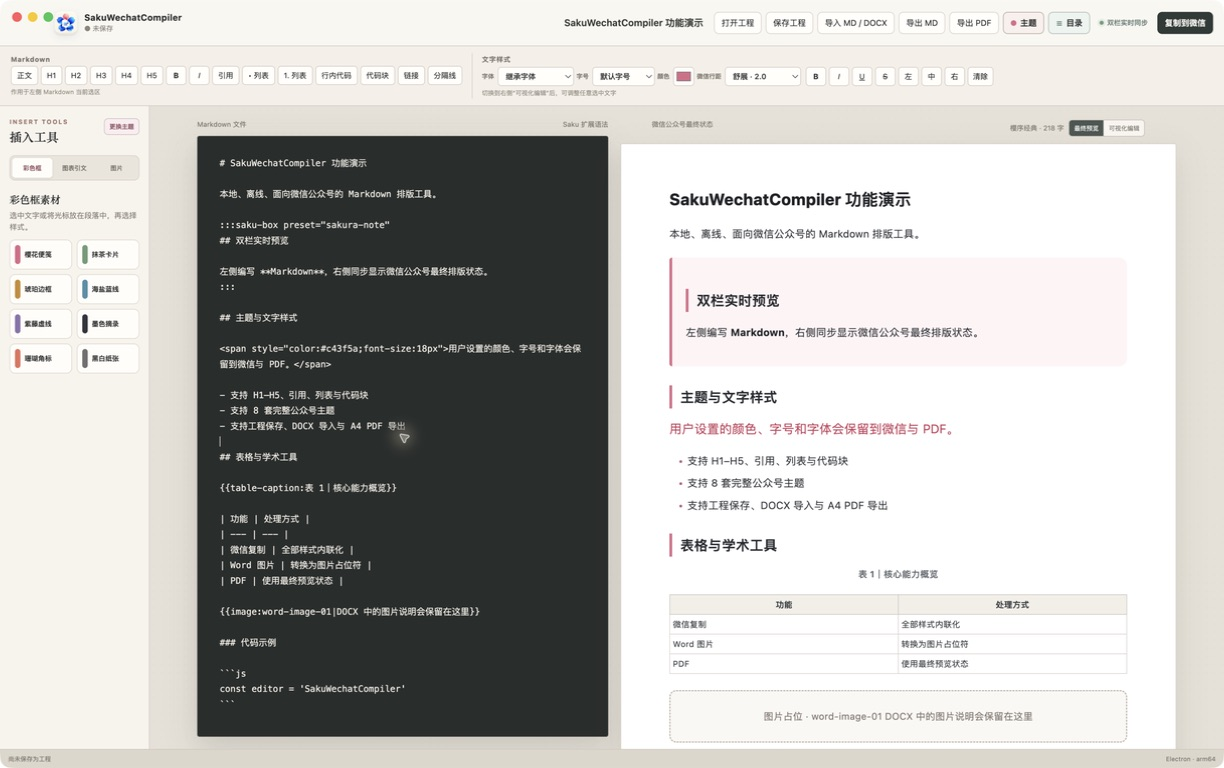
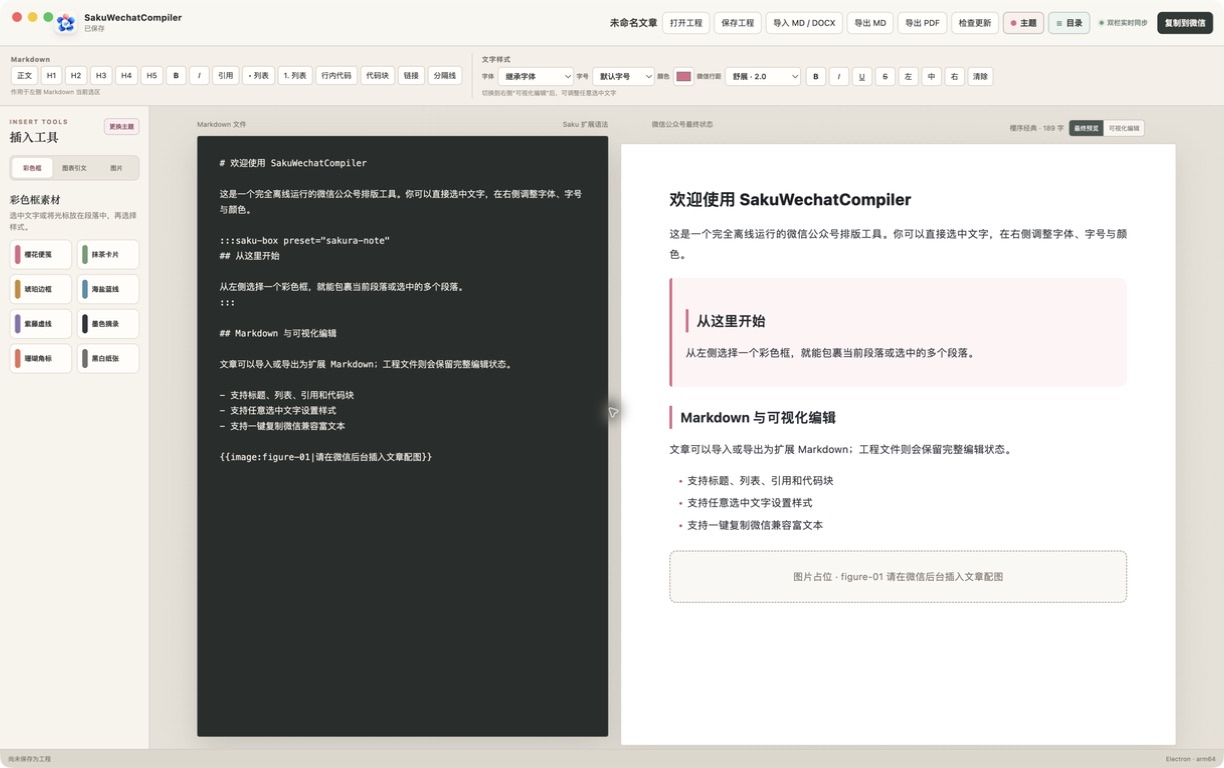
增加用户可选的 Release 更新检查

diff --git a/electron/main.ts b/electron/main.ts
@@ -7,12 +7,14 @@ import {
   Menu,
   type MenuItemConstructorOptions,
   nativeImage,
+  net,
   shell
 } from 'electron'
 import { readFile, writeFile } from 'node:fs/promises'
 import { basename, dirname, extname, join } from 'node:path'
 import * as mammoth from 'mammoth'
 import { createPrintablePdfHtml } from '../src/lib/pdf'
+import { compareVersions, parseGitHubRelease, type UpdateCheckResult } from '../src/lib/update'
 
 type SaveRequest = {
   content: string
@@ -52,6 +54,63 @@ const showAboutDialog = async (): Promise<void> => {
   })
 
   if (result.response === 0) await shell.openExternal('https://urbancomp.net')
+}
+
+const GITHUB_LATEST_RELEASE_API = 'https://api.github.com/repos/whuyao/SakuWechatCompiler/releases/latest'
+
+const checkForUpdates = async (parentWindow?: BrowserWindow): Promise<UpdateCheckResult> => {
+  const currentVersion = app.getVersion()
+
+  try {
+    const response = await net.fetch(GITHUB_LATEST_RELEASE_API, {
+      signal: AbortSignal.timeout(12_000),
+      headers: {
+        Accept: 'application/vnd.github+json',
+        'User-Agent': `SakuWechatCompiler/${currentVersion}`,
+        'X-GitHub-Api-Version': '2022-11-28'
+      }
+    })
+    if (!response.ok) throw new Error(`GitHub API 返回 ${response.status}`)
+
+    const release = parseGitHubRelease(await response.json())
+    if (compareVersions(release.version, currentVersion) <= 0) {
+      await dialog.showMessageBox(parentWindow ?? undefined, {
+        type: 'info',
+        title: '检查更新',
+        message: '当前已是最新版本',
+        detail: `当前版本：${currentVersion}\n最新版本：${release.version}`,
+        buttons: ['好'],
+        noLink: true
+      })
+      return { status: 'up-to-date', currentVersion, latestVersion: release.version }
+    }
+
+    const notes = release.notes.length > 1200 ? `${release.notes.slice(0, 1200)}…` : release.notes
+    const result = await dialog.showMessageBox(parentWindow ?? undefined, {
+      type: 'info',
+      title: '发现新版本',
+      message: `SakuWechatCompiler ${release.version} 可以更新`,
+      detail: `当前版本：${currentVersion}\n最新版本：${release.version}${notes ? `\n\n更新说明\n${notes}` : ''}\n\n更新不会自动安装；选择下载后，请打开 DMG 完成替换。`,
+      buttons: ['下载更新', '稍后'],
+      defaultId: 0,
+      cancelId: 1,
+      noLink: true
+    })
+
+    if (result.response === 0) await shell.openExternal(release.downloadUrl ?? release.pageUrl)
+    return { status: 'available', currentVersion, latestVersion: release.version }
+  } catch (error) {
+    const message = error instanceof Error ? error.message : '未知错误'
+    await dialog.showMessageBox(parentWindow ?? undefined, {
+      type: 'warning',
+      title: '无法检查更新',
+      message: '暂时无法连接 GitHub Release。',
+      detail: `${message}\n\n应用仍可离线正常使用，请稍后重试。`,
+      buttons: ['好'],
+      noLink: true
+    })
+    return { status: 'error', currentVersion, message }
+  }
 }
 
 const installApplicationMenu = (): void => {
@@ -107,6 +166,11 @@ const installApplicationMenu = (): void => {
     {
       label: '帮助',
       submenu: [
+        {
+          label: '检查更新…',
+          click: () => void checkForUpdates(BrowserWindow.getFocusedWindow() ?? undefined)
+        },
+        { type: 'separator' },
         { label: 'UrbanComp 官网', click: () => void shell.openExternal('https://urbancomp.net') },
         { label: '关于 SakuWechatCompiler', click: () => void showAboutDialog() }
       ]
@@ -176,6 +240,10 @@ const registerIpc = (): void => {
   ipcMain.on('app:set-dirty', (event, dirty: boolean) => {
     const window = BrowserWindow.fromWebContents(event.sender)
     if (window) dirtyWindows.set(window.id, Boolean(dirty))
+  })
+
+  ipcMain.handle('app:check-for-updates', async (event) => {
+    return checkForUpdates(BrowserWindow.fromWebContents(event.sender) ?? undefined)
   })
 
   ipcMain.handle('content:import', async () => {

diff --git a/src/lib/update.ts b/src/lib/update.ts
@@ -1,0 +1,108 @@
+export const RELEASES_URL = 'https://github.com/whuyao/SakuWechatCompiler/releases'
+
+export type UpdateCheckResult = {
+  status: 'available' | 'up-to-date' | 'error'
+  currentVersion: string
+  latestVersion?: string
+  message?: string
+}
+
+export type GitHubRelease = {
+  version: string
+  title: string
+  pageUrl: string
+  downloadUrl?: string
+  notes: string
+}
+
+type ParsedVersion = {
+  core: number[]
+  prerelease: string[]
+}
+
+const parseVersion = (value: string): ParsedVersion => {
+  const normalized = value.trim().replace(/^v/i, '').split('+', 1)[0]
+  const [coreValue, prereleaseValue = ''] = normalized.split('-', 2)
+  const coreParts = coreValue.split('.')
+
+  if (coreParts.length < 2 || coreParts.some((part) => !/^\d+$/.test(part))) {
+    throw new Error(`无法识别版本号 ${value}`)
+  }
+
+  return {
+    core: coreParts.map(Number),
+    prerelease: prereleaseValue ? prereleaseValue.split('.') : []
+  }
+}
+
+export const compareVersions = (left: string, right: string): number => {
+  const a = parseVersion(left)
+  const b = parseVersion(right)
+  const coreLength = Math.max(a.core.length, b.core.length)
+
+  for (let index = 0; index < coreLength; index += 1) {
+    const difference = (a.core[index] ?? 0) - (b.core[index] ?? 0)
+    if (difference !== 0) return difference > 0 ? 1 : -1
+  }
+
+  if (a.prerelease.length === 0 && b.prerelease.length > 0) return 1
+  if (a.prerelease.length > 0 && b.prerelease.length === 0) return -1
+
+  const prereleaseLength = Math.max(a.prerelease.length, b.prerelease.length)
+  for (let index = 0; index < prereleaseLength; index += 1) {
+    const leftPart = a.prerelease[index]
+    const rightPart = b.prerelease[index]
+    if (leftPart === undefined) return -1
+    if (rightPart === undefined) return 1
+    if (leftPart === rightPart) continue
+
+    const leftIsNumber = /^\d+$/.test(leftPart)
+    const rightIsNumber = /^\d+$/.test(rightPart)
+    if (leftIsNumber && rightIsNumber) return Number(leftPart) > Number(rightPart) ? 1 : -1
+    if (leftIsNumber !== rightIsNumber) return leftIsNumber ? -1 : 1
+    return leftPart.localeCompare(rightPart) > 0 ? 1 : -1
+  }
+
+  return 0
+}
+
+export const isSafeReleaseUrl = (value: string): boolean => {
+  try {
+    const url = new URL(value)
+    return url.protocol === 'https:'
+      && url.hostname === 'github.com'
+      && url.pathname.startsWith('/whuyao/SakuWechatCompiler/releases/')
+  } catch {
+    return false
+  }
+}
+
+export const parseGitHubRelease = (value: unknown): GitHubRelease => {
+  if (!value || typeof value !== 'object') throw new Error('GitHub Release 返回了无效数据。')
+  const release = value as Record<string, unknown>
+  const version = typeof release.tag_name === 'string' ? release.tag_name.trim().replace(/^v/i, '') : ''
+  const pageUrl = typeof release.html_url === 'string' ? release.html_url : ''
+
+  parseVersion(version)
+  if (!isSafeReleaseUrl(pageUrl)) throw new Error('Release 下载地址无效。')
+
+  const assets = Array.isArray(release.assets) ? release.assets : []
+  const dmgAsset = assets.find((asset) => {
+    if (!asset || typeof asset !== 'object') return false
+    const item = asset as Record<string, unknown>
+    return typeof item.name === 'string' && /-arm64\.dmg$/i.test(item.name)
+  }) as Record<string, unknown> | undefined
+  const candidateDownloadUrl = typeof dmgAsset?.browser_download_url === 'string'
+    ? dmgAsset.browser_download_url
+    : undefined
+
+  return {
+    version,
+    title: typeof release.name === 'string' && release.name.trim() ? release.name.trim() : `v${version}`,
+    pageUrl,
+    downloadUrl: candidateDownloadUrl && isSafeReleaseUrl(candidateDownloadUrl)
+      ? candidateDownloadUrl
+      : undefined,
+    notes: typeof release.body === 'string' ? release.body.trim() : ''
+  }
+}

diff --git a/src/App.tsx b/src/App.tsx
@@ -90,6 +90,7 @@ function App() {
   const [previewMode, setPreviewMode] = useState<PreviewMode>('final')
   const [utilityDrawer, setUtilityDrawer] = useState<UtilityDrawer>(null)
   const [sidebarTab, setSidebarTab] = useState<SidebarTab>('boxes')
+  const [checkingForUpdates, setCheckingForUpdates] = useState(false)
   const sourceSyncTimer = useRef<number | null>(null)
   const sourceTextareaRef = useRef<HTMLTextAreaElement>(null)
 
@@ -466,6 +467,23 @@ function App() {
     }
   }
 
+  const checkForUpdates = async () => {
+    if (!window.saku || checkingForUpdates) {
+      if (!window.saku) notify('请在 Electron 桌面应用中检查更新。', 'error')
+      return
+    }
+
+    setCheckingForUpdates(true)
+    try {
+      const result = await window.saku.checkForUpdates()
+      if (result.status === 'available') notify(`发现新版本 ${result.latestVersion}，可由你决定是否下载。`, 'info')
+      if (result.status === 'up-to-date') notify(`当前 ${result.currentVersion} 已是最新版本。`)
+      if (result.status === 'error') notify('检查更新失败，应用仍可离线使用。', 'error')
+    } finally {
+      setCheckingForUpdates(false)
+    }
+  }
+
   const applyBox = (preset: string) => {
     if (!editor) return
     if (editor.isActive('sakuBox')) {
@@ -545,6 +563,9 @@ function App() {
           <button onClick={importContent}>导入 MD / DOCX</button>
           <button onClick={() => void exportMarkdown(true)}>导出 MD</button>
           <button onClick={() => void exportPdf()}>导出 PDF</button>
+          <button title="只在点击时连接 GitHub Release" disabled={checkingForUpdates} onClick={() => void checkForUpdates()}>
+            {checkingForUpdates ? '检查中…' : '检查更新'}
+          </button>
           <button
             className={`utility-action theme-action ${utilityDrawer === 'themes' ? 'active' : ''}`}
             onClick={() => setUtilityDrawer((current) => current === 'themes' ? null : 'themes')}

diff --git a/tests/update.test.ts b/tests/update.test.ts
@@ -1,0 +1,40 @@
+import { describe, expect, it } from 'vitest'
+import { compareVersions, isSafeReleaseUrl, parseGitHubRelease } from '../src/lib/update'
+
+describe('GitHub Release 更新检查', () => {
+  it('比较稳定版、v 前缀和预发布版本', () => {
+    expect(compareVersions('v0.2.3', '0.2.2')).toBe(1)
+    expect(compareVersions('0.2.3', 'v0.2.3')).toBe(0)
+    expect(compareVersions('0.2.3-beta.2', '0.2.3-beta.1')).toBe(1)
+    expect(compareVersions('0.2.3', '0.2.3-beta.2')).toBe(1)
+  })
+
+  it('只接受项目自己的 GitHub Release 地址并读取 arm64 DMG', () => {
+    const release = parseGitHubRelease({
+      tag_name: 'v0.2.3',
+      name: 'SakuWechatCompiler 0.2.3',
+      html_url: 'https://github.com/whuyao/SakuWechatCompiler/releases/tag/v0.2.3',
+      body: '更新说明',
+      assets: [{
+        name: 'SakuWechatCompiler-0.2.3-arm64.dmg',
+        browser_download_url: 'https://github.com/whuyao/SakuWechatCompiler/releases/download/v0.2.3/SakuWechatCompiler-0.2.3-arm64.dmg'
+      }]
+    })
+
+    expect(release.version).toBe('0.2.3')
+    expect(release.downloadUrl).toContain('SakuWechatCompiler-0.2.3-arm64.dmg')
+    expect(isSafeReleaseUrl('https://example.com/releases/v0.2.3')).toBe(false)
+  })
+
+  it('拒绝格式错误或被替换的 Release 页面', () => {
+    expect(() => parseGitHubRelease({
+      tag_name: 'latest',
+      html_url: 'https://github.com/whuyao/SakuWechatCompiler/releases/tag/latest'
+    })).toThrow('无法识别版本号')
+
+    expect(() => parseGitHubRelease({
+      tag_name: 'v0.2.3',
+      html_url: 'https://attacker.example/download'
+    })).toThrow('Release 下载地址无效')
+  })
+})

diff --git a/src/types/electron.d.ts b/src/types/electron.d.ts
@@ -32,6 +32,12 @@ declare global {
       }) => Promise<{ path: string; name: string } | null>
       writeRichText: (html: string, text: string) => Promise<boolean>
       setDirtyState: (dirty: boolean) => void
+      checkForUpdates: () => Promise<{
+        status: 'available' | 'up-to-date' | 'error'
+        currentVersion: string
+        latestVersion?: string
+        message?: string
+      }>
       platform: string
       architecture: string
     }

diff --git a/electron/preload.ts b/electron/preload.ts
@@ -12,6 +12,7 @@ const api = {
   writeRichText: (html: string, text: string) =>
     ipcRenderer.invoke('clipboard:write-rich-text', html, text),
   setDirtyState: (dirty: boolean) => ipcRenderer.send('app:set-dirty', dirty),
+  checkForUpdates: () => ipcRenderer.invoke('app:check-for-updates'),
   platform: process.platform,
   architecture: process.arch
 }

diff --git a/src/styles/app.css b/src/styles/app.css
@@ -154,6 +154,11 @@ button {
   background: #f1ede5;
 }
 
+.top-actions button:disabled {
+  cursor: progress;
+  opacity: 0.58;
+}
+
 .top-actions .utility-action {
   display: inline-flex;
   align-items: center;
